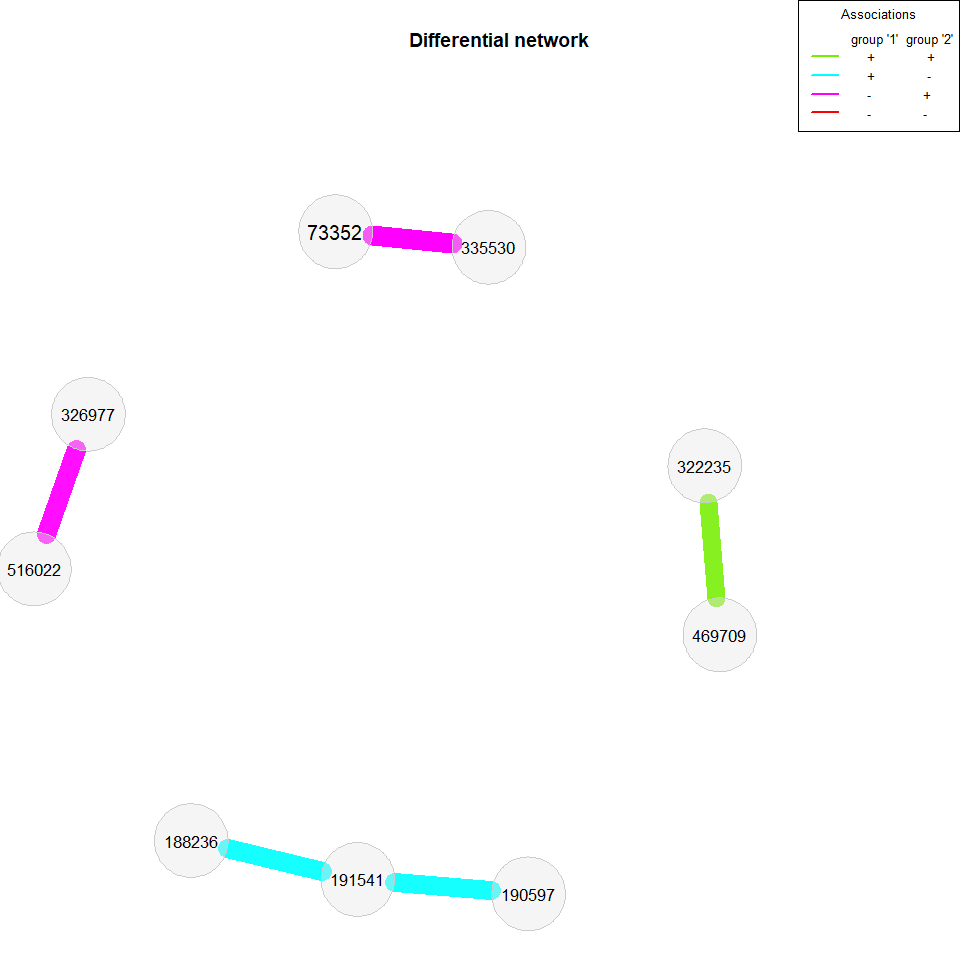
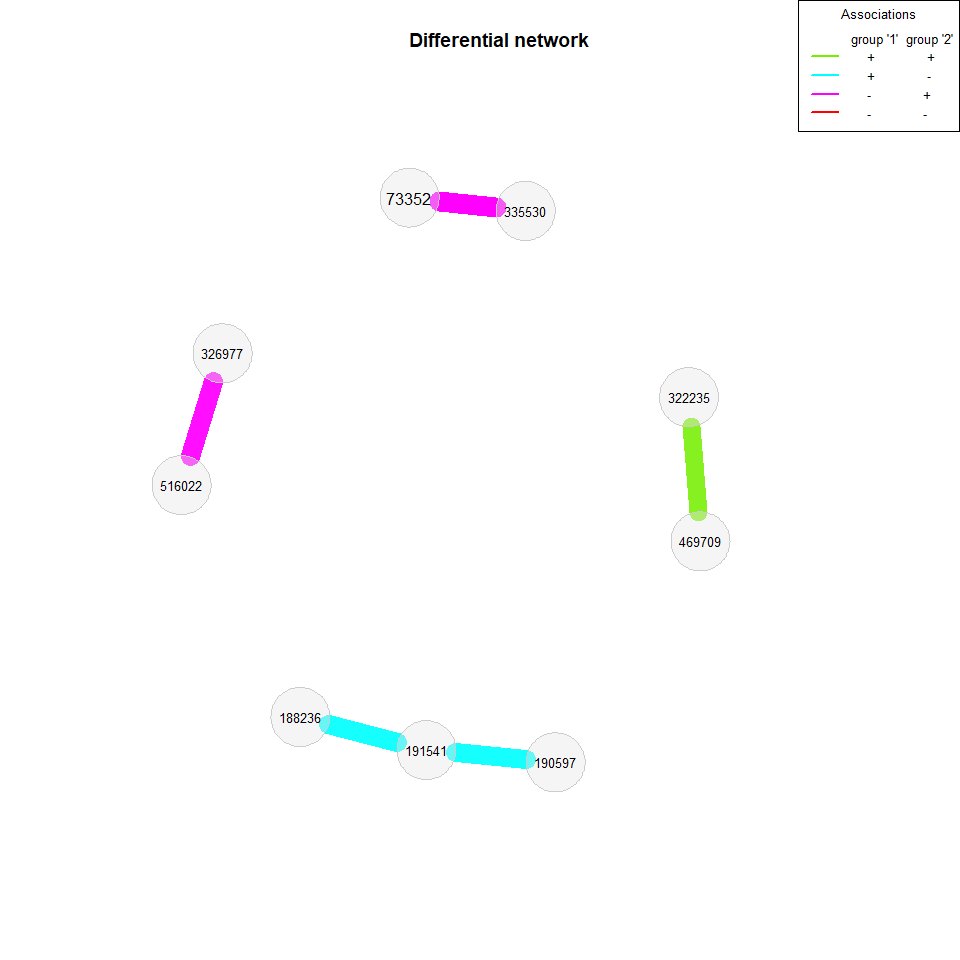
update readme

diff --git a/readme.md b/readme.md
@@ -1,6 +1,8 @@
 NetCoMi
 =======
 
+[![DOI](https://zenodo.org/badge/259906607.svg)](https://zenodo.org/badge/latestdoi/259906607)
+
 `NetCoMi` (Network Comparison for Microbiome data) provides functions
 for constructing, analyzing, and comparing networks suitable for the
 application on microbial compositional data. The package includes
@@ -102,7 +104,7 @@ together with some information on the implementation in R.
     from `robCompositions` package))
 
 TSS, CSS, COM, VST, and the clr transformation are described in \[Badri
-et al., 2018\].
+et al., 2020\].
 
 Installation
 ------------
@@ -199,7 +201,7 @@ according to the node’s eigenvector centrality.
 plot(props_single, nodeColor = "cluster", nodeSize = "eigenvector")
 ```
 
-![](readme_files/figure-markdown_github/example4,%20-1.png)
+![](readme_files/figure-markdown_github/example4-1.png)
 
 Let’s construct another network using Pearson’s correlation coefficient
 as association measure. Since Pearson correlations may lead to
@@ -355,10 +357,10 @@ summary(comp_season, showCentr = c("degree", "eigen"), numbTaxa = 5)
     ## Jaccard index (similarity betw. sets of most central nodes):
     ## `````````````
     ##                     Jacc   P(<=Jacc)     P(>=Jacc)   
-    ## degree             0.308   0.5520387     0.6775760   
-    ## betweenness centr. 0.455   0.8779150     0.2889973   
-    ## closeness centr.   0.375   0.7374313     0.4530638   
-    ## eigenvec. centr.   0.375   0.7374313     0.4530638   
+    ## degree             0.300   0.5592643     0.7008586   
+    ## betweenness centr. 0.538   0.9653452     0.1035392   
+    ## closeness centr.   0.467   0.9117684     0.2030389   
+    ## eigenvec. centr.   0.222   0.2310724     0.8983349   
     ## hub taxa           0.000   0.0877915 .   1.0000000   
     ## -----
     ## Jaccard index ranges from 0 (compl. different) to 1 (sets equal)
@@ -367,18 +369,18 @@ summary(comp_season, showCentr = c("degree", "eigen"), numbTaxa = 5)
     ## Global network properties:
     ## ``````````````````````````
     ##                     group '1'   group '2'    difference
-    ## average path length     2.551       1.255         1.296
-    ## clustering coeff.       0.000       0.150         0.150
-    ## modularity              0.597       0.651         0.054
+    ## average path length     2.551       1.982         0.569
+    ## clustering coeff.       0.000       0.316         0.316
+    ## modularity              0.597       0.601         0.005
     ## vertex connectivity     0.000       0.000         0.000
     ## edge connectivity       0.000       0.000         0.000
-    ## edge density            0.032       0.019         0.013
+    ## edge density            0.032       0.040         0.008
     ## 
     ## 
     ## Adjusted Rand index (similarity betw. clusterings):
     ## ```````````````````
     ##    ARI       p-value
-    ##  0.339             0
+    ##  0.253             0
     ## -----
     ## ARI in [-1,1] with ARI=1: perfect agreement betw. clusterings,
     ##                    ARI=0: expected for two random clusterings
@@ -389,19 +391,19 @@ summary(comp_season, showCentr = c("degree", "eigen"), numbTaxa = 5)
     ## ````````````````````
     ## Degree:
     ##        group '1' group '2' difference
-    ## 364563     0.119     0.024      0.095
-    ## 259569     0.095     0.000      0.095
+    ## 188236     0.048     0.167      0.119
+    ## 326977     0.000     0.071      0.071
+    ## 259569     0.095     0.024      0.071
     ## 469709     0.000     0.048      0.048
-    ## 322235     0.119     0.071      0.048
-    ## 470239     0.048     0.000      0.048
+    ## 158660     0.024     0.071      0.048
     ## 
     ## Eigenvector centrality:
     ##        group '1' group '2' difference
-    ## 322235     0.058     0.937      0.879
+    ## 322235     0.058     0.704      0.646
     ## 188236     0.359     1.000      0.641
-    ## 364563     0.756     0.127      0.630
-    ## 469709     0.000     0.594      0.594
-    ## 194648     0.364     0.854      0.490
+    ## 184983     0.227     0.819      0.592
+    ## 364563     0.756     0.178      0.578
+    ## 326977     0.000     0.470      0.470
     ## 
     ## --------------------------------------------------------
     ## Significance codes: ***: 0.001, **: 0.01, *: 0.05, .: 0.1
@@ -438,7 +440,11 @@ diff_season2 <- diffnet(net_season2, diffMethod = "fisherTest", adjust = "lfdr")
     ## Done.
 
 ``` r
-plot(diff_season2, mar = c(2,1,7,7), cexLegend = 0.8)
+<<<<<<< Updated upstream
+plot(diff_season2, cexNodes = 0.8, cexLegend = 0.8, mar = c(7,7,7,10))
+=======
+plot(diff_season2, mar = c(2,1,7,7))
+>>>>>>> Stashed changes
 ```
 
 ![](readme_files/figure-markdown_github/example11-1.png)
@@ -522,7 +528,7 @@ col <- topo.colors(nclust)
 plot(netprops1, sameLayout = TRUE, layoutGroup = 1, colorVec = col,
      borderCol = "gray40", nodeSize = "degree", cexNodes = 35, 
      nodeSizeSpread = 0.1, edgeTranspLow = 80, edgeTranspHigh = 50,
-     groupNames = c("Warming", "Non-warming"), showTitle = TRUE, cexTitle = 0.9,
+     groupNames = c("Warming", "Non-warming"), showTitle = TRUE, cexTitle = 1.5,
      mar = c(1,1,3,1), repulsion = 0.9, labels = FALSE, rmSingles = "inboth",
      nodeFilter = "clustMin", nodeFilterPar = 10, 
      nodeTransp = 50, hubTransp = 30)
@@ -534,11 +540,11 @@ References
 \[Martín-Fernández et al., 1999\] Josep A Martín-Fernández, Mark J Bren,
 Carles Barceló-Vidal, and Vera Pawlowsky-Glahn (1999). [A measure of
 difference for compositional data based on measures of
-divergence](http://ima.udg.edu/~barcelo/index_archivos/A_mesure_of_difference.pdf),
-*Lippard, Næss, and Sinding-Larsen*, 211-216, 1999.)
+divergence](http://ima.udg.edu/~barcelo/index_archivos/A_mesure_of_difference.pdf).
+*Lippard, Næss, and Sinding-Larsen*, 211-216.)
 
-\[Badri et al., 2018\] Michelle Badri, Zachary Kurtz, Christian Müller,
-and Richard Bonneau. [Normalization methods for microbial abundance data
-strongly affect correlation
-estimates](https://www.biorxiv.org/content/10.1101/406264v1). *bioRxiv*,
-2018. doi: 406264.
+\[Badri et al., 2020\] Michelle Badri, Zachary D. Kurtz, Richard
+Bonneau, and Christian L. Müller (2020). [Shrinkage improves estimation
+of microbial associations under different normalization
+methods](https://www.biorxiv.org/content/10.1101/406264v2). *bioRxiv*,
+doi: 10.1101/406264.
